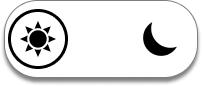
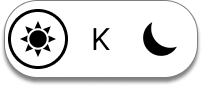
subindo página de termos de responsabilidade

Changed region(s): [[0.4455, 0.3256, 0.5644, 0.5814]]

diff --git a/Landing_page_Incluses/src/components/termosprivacidade/TermosPrivadicade.jsx b/Landing_page_Incluses/src/components/termosprivacidade/TermosPrivadicade.jsx
@@ -1,0 +1,32 @@
+import style from "./termosPrivacidade.module.css"
+import Navbar from "../navbar2/Navbar"
+
+function TermosPrivacidade(){
+    return(
+        <div className={style.geral}>
+            <h1 id={style.title}>Sobre a Política de Privacidade e Termos de Uso</h1>
+            <p id={style.subtitle}><strong>O que é uma Política de Privacidade?</strong></p>
+            <p id={style.text}>Uma política de privacidade é um documento que explica como um website lida com toda a informação coletada dos 
+                seus utilizadores e/ou clientes. É uma boa prática dizer aos utilizadores como os sites armazenam e fazem uso desses dados.</p>
+            <p id={style.subtitle}><strong>A Importância da Política de Privacidade</strong></p>
+            <p id={style.text}>As políticas de privacidade podem ser exigidas por lei, dependendo de onde você opera. Em qualquer caso, é uma boa prática ter uma
+                 política de privacidade de proteção de dados, especialmente se você colectar qualquer tipo de dados privados de seus usuários 
+                 (por exemplo, dados de cookies, detalhes de pagamento, endereço e número de telefone). Além disso, você pode precisar de uma política
+                 de privacidade para usar Google AdSense, APIs e serviços de terceiros como o Instagram ou listar seu aplicativo em um mercado comercial
+                  como o Google Play. Se o seu site envolver usuários no Espaço Económico Europeu, você poderá ser obrigado a publicar uma política de 
+                  privacidade em conformidade com o GDPR.</p>
+                  <br></br>
+            <p id={style.subtitle}><strong>O que são Termos de Uso (Termos e Condições)?</strong></p>
+            <p id={style.text}>Tecnicamente, você não precisa de uma declaração de termos de serviço. Não é exigido por lei, mas geralmente é aconselhável incluir 
+                esses termos no seu site para cobrir as expectativas e acordos entre você e seus usuários.</p>
+            <p id={style.text}>Algumas empresas podem até solicitar que você disponibilize uma antes que possa entrar em um relacionamento com elas. Na maioria 
+                das vezes, os proprietários e usuários do site se comportam de maneira justa e razoável, tornando suas informações de termos e 
+                condições redundantes. No entanto, em circunstâncias incomuns, como aquelas que envolvem abuso, roubo de propriedade intelectual 
+                ou comportamento ilegal, a indicação explícita dos termos e condições pode oferecer proteções básicas para você e sua empresa, 
+                limitando sua responsabilidade e esclarecendo seus direitos sobre o conteúdo publicado sobre a Política de Privacidade e Termos 
+                de Uso.</p>
+        </div>
+    )
+}
+
+export default TermosPrivacidade

diff --git a/Landing_page_Incluses/src/components/navbar2/Navbar.jsx b/Landing_page_Incluses/src/components/navbar2/Navbar.jsx
@@ -14,11 +14,22 @@ function Navbar({color1, color2, trocarCor}){
         setSrcAtual((prevSrc) => (prevSrc === temaClaro ? temaEscuro : temaClaro));
     };
 
+    const handleTabPress = (event) => {
+        if (event.key === 'k' || event.key === 'K') {
+          alternarImagem()
+          console.log('passou')
+        }
+      };
+
 
     const navigate = useNavigate();
 
     const goToGrafic = () => {
         navigate('/grafic')
+    }
+
+    const goToTermos = () => {
+        navigate('/termosdeprivacidade')
     }
 
     const goToInfos = () => {
@@ -30,18 +41,16 @@ function Navbar({color1, color2, trocarCor}){
     }
     return(
         <div className={style.cabecalho} >
-                <p className={style.logo} onClick={() => {goToMain()}}>Incluses</p>
                 <nav className={style.nav}>
-                    <div onClick={() => {goToGrafic()}}>
-                        <BotaoNav text="Power BI" color={color1} onClick={goToGrafic()}></BotaoNav>
+                <p className={style.logo} onClick={() => {goToMain()}}>Incluses</p>
+                    <div id={style.botoes}>
+                        <div onClick={() => {goToGrafic()}}>
+                            <BotaoNav text="Power BI" color={color1} ></BotaoNav>
+                        </div>
                     </div>
-                    <div>
                     <img src={srcAtual} id={style.tema} onClick={() => {
                         alternarImagem() 
                         trocarCor()}}></img>
-                    </div>
-                    
-                    
                 </nav>
             </div>
     )

diff --git a/Landing_page_Incluses/src/App.jsx b/Landing_page_Incluses/src/App.jsx
@@ -6,6 +6,7 @@ import TelaIntermediaria from "./components/Tela-intermediaria/Tela-intermediari
 import Infos from "./components/infos/Infos.jsx";
 import Mobile from "./components/mobile/Mobile.jsx";
 import SobreNos from "./components/sobreNos/SobreNos.jsx";
+import TermosPrivacidade from "./components/termosprivacidade/termosPrivadicade.jsx";
 
 
 function App() {
@@ -18,6 +19,7 @@ function App() {
         <Route path="/grafic" element={<Grafic/>}/>
         <Route path="/infos" element={<Infos/>}/>
         <Route path="/mobile" element={<Mobile/>}></Route>
+        <Route path="/termosdeprivacidade" element={<TermosPrivacidade/>}></Route>
       </Routes>
     </Router>
   )

diff --git a/Landing_page_Incluses/src/components/termosprivacidade/termosPrivacidade.module.css b/Landing_page_Incluses/src/components/termosprivacidade/termosPrivacidade.module.css
@@ -1,0 +1,32 @@
+.geral{
+    display: flex;
+    flex-direction: column;
+    align-items: center;
+}
+
+#title{
+    font-family: "Palanquin", sans-serif;
+    font-weight: 600;
+    font-style: bold;
+    margin-top: 30px;
+    font-size: 22px;
+    color: #2B46D3;
+}
+
+#subtitle{
+    font-family: "Palanquin", sans-serif;
+    font-weight: 600;
+    font-style: bold;
+    margin-top: 30px;
+    font-size: 19px;
+    color: #7f94ff;
+}
+
+#text{
+    font-family: "Palanquin", sans-serif;
+    font-weight: 600;
+    font-style: bold;
+    margin-top: 30px;
+    font-size: 15px; 
+    width: 300px;
+}

diff --git a/Landing_page_Incluses/src/components/grafic/Grafic.jsx b/Landing_page_Incluses/src/components/grafic/Grafic.jsx
@@ -1,8 +1,11 @@
 import style from "./Grafic.module.css"
 import Navbar from "../navbar2/Navbar"
 import React, { useState, useEffect } from 'react';
+import temaClaro from "../../assets/modoClaro.png"
+import temaEscuro from "../../assets/modoEscuro.png"
 
 function Grafic(){
+    
 
   const pegarTemaAtual = () => {
     const storedColor = localStorage.getItem('backgroundColor');
@@ -29,6 +32,7 @@ function Grafic(){
   const handleTabPress = (event) => {
     if (event.key === 'k' || event.key === 'K') {
       trocarCor()
+      alternarImagem()
       console.log('passou')
     }
   };

diff --git a/Landing_page_Incluses/src/components/navbar2/Navbar.module.css b/Landing_page_Incluses/src/components/navbar2/Navbar.module.css
@@ -4,7 +4,7 @@
     font-size: 25px;
     align-items: center;
     user-select: none;
-    gap: 170%;
+    gap: 130%;
 }
 
 .logo{
@@ -16,6 +16,11 @@
     margin-left: 30px;
     cursor: pointer;
     user-select: none;
+}
+
+#botoes{
+    display: flex;
+    gap: 50%;
 }
 
 #botaotema{
@@ -75,4 +80,17 @@
 #temas{
     display: flex;
     flex-direction: column;
+}
+
+#conjunto{
+    display: flex;
+    font-size: 20px;
+    gap: 10px;
+    color: whitesmoke;
+}
+
+#texttema{
+    background-color: black;
+    padding: 5px;
+    border-radius: 10px;
 }

diff --git a/Landing_page_Incluses/src/components/botaoNav/BotaoNav.jsx b/Landing_page_Incluses/src/components/botaoNav/BotaoNav.jsx
@@ -1,7 +1,7 @@
 import style from "./BotaoNav.module.css"
 import { useNavigate } from 'react-router-dom';
 import React, { useState } from 'react';
-import setaBaixo from "../../assets/setabaixo.png"
+import setaBaixo from "../../assets/setaBaixo.png"
 
 function BotaoNav({text,color}){
     return(

diff --git a/Landing_page_Incluses/src/components/botaoNav/BotaoNav.module.css b/Landing_page_Incluses/src/components/botaoNav/BotaoNav.module.css
@@ -11,6 +11,7 @@
     font-family: "Palanquin", sans-serif;
     font-weight: 200;
     font-style:normal;
+    width: 80px;
 }
 
 .img{
